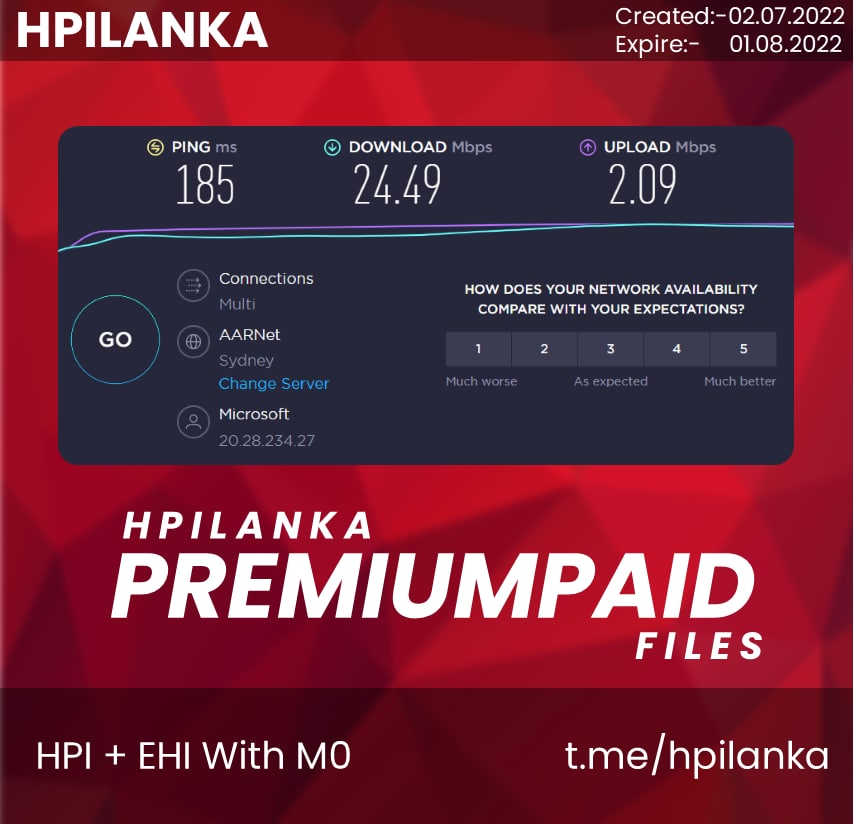
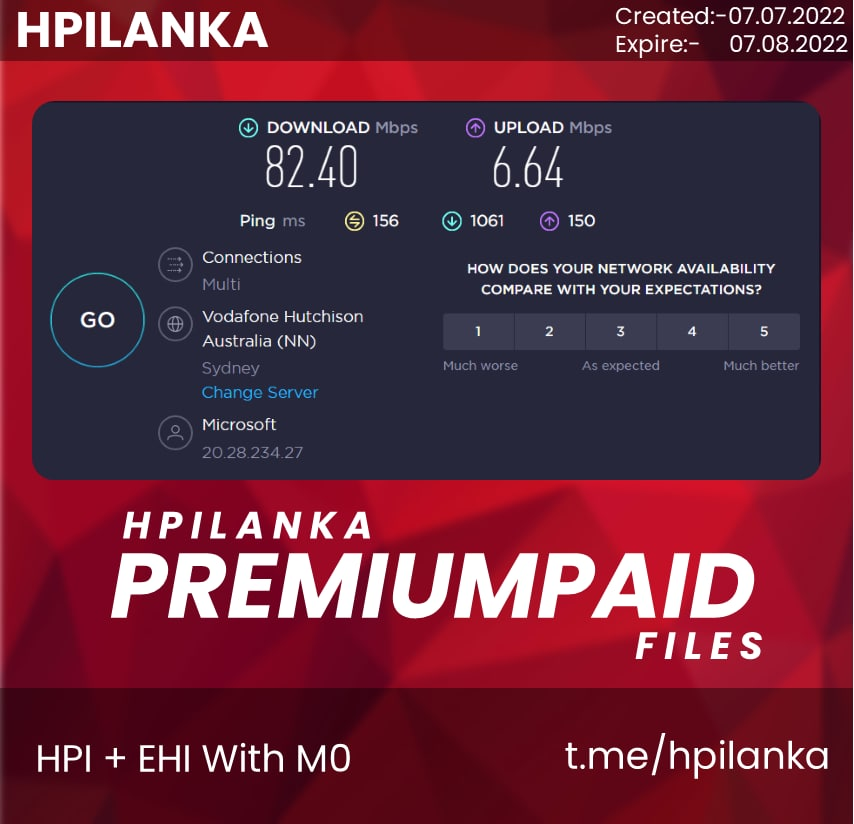
update_220707

diff --git a/hpifiles.html b/hpifiles.html
@@ -67,17 +67,17 @@
                 <p class="card-text">
                     <b>Categorie :-</b> Http prxoy injector HPI
                     <br>
-                    <b>Created date :-</b> 02.07.2022
+                    <b>Created date :-</b> 07.07.2022
                     <br>
-                    <b>Expire date :-</b> 01.08.2022
+                    <b>Expire date :-</b> 07.08.2022
                     <br>
-                    <b>Sever location :-</b> AU
+                    <b>Sever location :-</b> US 🇺🇸
                     <br>
                     <b>VPS :-</b> Azure
                 </p>
                   <div class="btn-group" role="group" aria-label="Basic mixed styles example">
-                <a href="https://t.me/hpilanka/759" target="blank" class="btn btn-dark btn-sm"><i class="fa-brands fa-telegram"></i> View on telegram</a>
-                <a href="Files/🛢 Zoom 🛢.hpi" class="btn btn-success btn-sm"><i class="fa-solid fa-download"></i> Download</a>
+                <a href="https://t.me/hpilanka/861" target="blank" class="btn btn-dark btn-sm"><i class="fa-brands fa-telegram"></i> View on telegram</a>
+                <a href="Files/🥀 Zoom 🥀.hpi" class="btn btn-success btn-sm"><i class="fa-solid fa-download"></i> Download</a>
                 </div>
               </div>
             </div>
@@ -90,17 +90,17 @@
                     <p class="card-text">
                       <b>Categorie :-</b> Http prxoy injector HPI
                       <br>
-                      <b>Created date :-</b> 02.07.2022
+                      <b>Created date :-</b> 07.07.2022
                       <br>
-                      <b>Expire date :-</b> 01.08.2022
+                      <b>Expire date :-</b> 07.08.2022
                       <br>
-                      <b>Sever location :-</b> AU
+                      <b>Sever location :-</b> US 🇺🇸
                       <br>
                       <b>VPS :-</b> Azure
                     </p>
                       <div class="btn-group" role="group" aria-label="Basic mixed styles example">
-                    <a href="https://t.me/hpilanka/763" target="blank" class="btn btn-dark btn-sm"><i class="fa-brands fa-telegram"></i> View on telegram</a>
-                    <a href="Files/🛢 WhatsApp 🛢.hpi" class="btn btn-success btn-sm"><i class="fa-solid fa-download"></i> Download</a>
+                    <a href="https://t.me/hpilanka/865" target="blank" class="btn btn-dark btn-sm"><i class="fa-brands fa-telegram"></i> View on telegram</a>
+                    <a href="Files/🥀 WhatsApp 🥀.hpi" class="btn btn-success btn-sm"><i class="fa-solid fa-download"></i> Download</a>
                     </div>
                   </div>
                 </div>
@@ -113,17 +113,17 @@
                     <p class="card-text">
                       <b>Categorie :-</b> Http prxoy injector HPI
                       <br>
-                      <b>Created date :-</b> 02.07.2022
+                      <b>Created date :-</b> 07.07.2022
                       <br>
-                      <b>Expire date :-</b> 01.08.2022
+                      <b>Expire date :-</b> 07.08.2022
                       <br>
-                      <b>Sever location :-</b> AU
+                      <b>Sever location :-</b> US 🇺🇸
                       <br>
                       <b>VPS :-</b> Azure
                     </p>
                       <div class="btn-group" role="group" data-bs-target="#afterdownload" aria-label="Basic mixed styles example">
                     <a href="https://t.me/hpilanka/758" target="blank" class="btn btn-dark btn-sm"><i class="fa-brands fa-telegram"></i> View on telegram</a>
-                    <a href="Files/🛢 YouTube 🛢.hpi" class="btn btn-success btn-sm"><i class="fa-solid fa-download"></i> Download</a>
+                    <a href="https://t.me/hpilanka/867" class="btn btn-success btn-sm"><i class="fa-solid fa-download"></i> Download</a>
                     </div>
                   </div>
                 </div>
@@ -136,17 +136,17 @@
                     <p class="card-text">
                       <b>Categorie :-</b> Http prxoy injector HPI
                       <br>
-                      <b>Created date :-</b> 02.07.2022
+                      <b>Created date :-</b> 07.07.2022
                       <br>
-                      <b>Expire date :-</b> 01.08.2022
+                      <b>Expire date :-</b> 07.08.2022
                       <br>
-                      <b>Sever location :-</b> AU
+                      <b>Sever location :-</b> US 🇺🇸
                       <br>
                       <b>VPS :-</b> Azure
                     </p>
                       <div class="btn-group" role="group" aria-label="Basic mixed styles example">
-                    <a href="https://t.me/hpilanka/760" target="blank" class="btn btn-dark btn-sm"><i class="fa-brands fa-telegram"></i> View on telegram</a>
-                    <a href="Files/🛢 Facebook 🛢.hpi" class="btn btn-success btn-sm">Download</a>
+                    <a href="https://t.me/hpilanka/862" target="blank" class="btn btn-dark btn-sm"><i class="fa-brands fa-telegram"></i> View on telegram</a>
+                    <a href="Files/🥀 Facebook 🥀.hpi" class="btn btn-success btn-sm">Download</a>
                     </div>
                   </div>
                 </div>
@@ -159,17 +159,17 @@
                     <p class="card-text">
                       <b>Categorie :-</b> Http prxoy injector HPI
                       <br>
-                      <b>Created date :-</b> 02.07.2022
+                      <b>Created date :-</b> 07.07.2022
                       <br>
-                      <b>Expire date :-</b> 01.08.2022
+                      <b>Expire date :-</b> 07.08.2022
                       <br>
-                      <b>Sever location :-</b> AU
+                      <b>Sever location :-</b> US 🇺🇸
                       <br>
                       <b>VPS :-</b> Azure
                     </p>
                       <div class="btn-group" role="group" aria-label="Basic mixed styles example">
-                    <a href="https://t.me/hpilanka/762" target="blank" class="btn btn-dark btn-sm"><i class="fa-brands fa-telegram"></i> View on telegram</a>
-                    <a href="Files/🛢 Twitter 🛢.hpi" class="btn btn-success btn-sm"><i class="fa-solid fa-download"></i> Download</a>
+                    <a href="https://t.me/hpilanka/864" target="blank" class="btn btn-dark btn-sm"><i class="fa-brands fa-telegram"></i> View on telegram</a>
+                    <a href="Files/🥀 Twitter 🥀.hpi" class="btn btn-success btn-sm"><i class="fa-solid fa-download"></i> Download</a>
                     </div>
                   </div>
                 </div>
@@ -182,17 +182,17 @@
                     <p class="card-text">
                       <b>Categorie :-</b> Http prxoy injector HPI
                       <br>
-                      <b>Created date :-</b> 02.07.2022
+                      <b>Created date :-</b> 07.07.2022
                       <br>
-                      <b>Expire date :-</b> 01.08.2022
+                      <b>Expire date :-</b> 07.08.2022
                       <br>
-                      <b>Sever location :-</b> AU
+                      <b>Sever location :-</b> US 🇺🇸
                       <br>
                       <b>VPS :-</b> Azure
                     </p>
                       <div class="btn-group" role="group" aria-label="Basic mixed styles example">
-                    <a href="https://t.me/hpilanka/761" target="blank" class="btn btn-dark btn-sm"><i class="fa-brands fa-telegram"></i> View on telegram</a>
-                    <a href="Files/🛢 Mobitel 0 🛢.hpi" class="btn btn-success btn-sm"><i class="fa-solid fa-download"></i> Download</a>
+                    <a href="https://t.me/hpilanka/863" target="blank" class="btn btn-dark btn-sm"><i class="fa-brands fa-telegram"></i> View on telegram</a>
+                    <a href="Files/🥀 Mobitel 0 🥀.hpi" class="btn btn-success btn-sm"><i class="fa-solid fa-download"></i> Download</a>
                     </div>
                   </div>
                 </div>
@@ -205,17 +205,17 @@
                     <p class="card-text">
                       <b>Categorie :-</b> Http prxoy injector HPI
                       <br>
-                      <b>Created date :-</b> 02.07.2022
+                      <b>Created date :-</b> 07.07.2022
                       <br>
-                      <b>Expire date :-</b> 01.08.2022
+                      <b>Expire date :-</b> 07.08.2022
                       <br>
-                      <b>Sever location :-</b> AU
+                      <b>Sever location :-</b> US 🇺🇸
                       <br>
                       <b>VPS :-</b> Azure
                     </p>
                       <div class="btn-group" role="group" aria-label="Basic mixed styles example">
-                    <a href="https://t.me/hpilanka/764" target="blank" class="btn btn-dark btn-sm"><i class="fa-brands fa-telegram"></i> View on telegram</a>
-                    <a href="Files/🛢 Without Host (VPN) 🛢.hpi" class="btn btn-success btn-sm"><i class="fa-solid fa-download"></i> Download</a>
+                    <a href="https://t.me/hpilanka/866" target="blank" class="btn btn-dark btn-sm"><i class="fa-brands fa-telegram"></i> View on telegram</a>
+                    <a href="Files/🥀 Without Host (VPN) 🥀.hpi" class="btn btn-success btn-sm"><i class="fa-solid fa-download"></i> Download</a>
                     </div>
                   </div>
                 </div>

diff --git a/ehifiles.html b/ehifiles.html
@@ -55,10 +55,171 @@
       <!--space-->
     <p>&nbsp;</p>
     <!--hometxt-->
-    <h1 class="hometxt"><b>HTTP INJECTOR (Android) CONFIGS (EHI)</b></h1>
-    <h1 class="hometxt"><b>Notice!</b></h1>
-    <h1 class="hometxt3">We do not usually give you files directly on web. So you can download ehi files from here.</h1>
-      <center><a href="https://t.me/hpilanka/768" target="_blank" class="btn btn-success" aria-current="page"><i class="fa-solid fa-cloud-arrow-down"></i> Get EHI Files</a></center>
+    <h1 class="hometxt"><b>Attention!</b></h1>
+    <h1 class="hometxt3">This Page is Under the Construction!
+      <br>
+      ©2022GreatstudiosLK</h1>
+    <div class="container">
+        <div class="row mt-3">  
+          <div class="col-md-3 mb-4 d-flex align-items-stretch">
+            <div class="card">
+              <img src="Files/tub.jpg" class="card-img-top" alt="tub">
+              <div class="card-body">
+                <h5 class="card-title"><i class="fa-solid fa-video"></i> PAID Zoom </h5>
+                <p class="card-text">
+                  <b>Categorie :-</b> Http prxoy injector HPI
+                  <br>
+                  <b>Created date :-</b> 07.07.2022
+                  <br>
+                  <b>Expire date :-</b> 07.08.2022
+                  <br>
+                  <b>Sever location :-</b> US 🇺🇸
+                  <br>
+                  <b>VPS :-</b> Azure
+                </p>
+                  <div class="btn-group" role="group" aria-label="Basic mixed styles example">
+                <a href="" target="blank" class="btn btn-dark btn-sm"><i class="fa-brands fa-telegram"></i> View on telegram</a>
+                <a href="" class="btn btn-success btn-sm"><i class="fa-solid fa-download"></i> Download</a>
+                </div>
+              </div>
+            </div>
+          </div>
+              <div class="col-md-3 mb-4 d-flex align-items-stretch">
+                <div class="card">
+                  <img src="Files/tub.jpg" class="card-img-top" alt="office16">
+                  <div class="card-body">
+                    <h5 class="card-title"> <i class="fa-brands fa-whatsapp"></i> PAID WhatsApp</h5>
+                    <p class="card-text">
+                      <b>Categorie :-</b> Http prxoy injector HPI
+                      <br>
+                      <b>Created date :-</b> 07.07.2022
+                      <br>
+                      <b>Expire date :-</b> 07.08.2022
+                      <br>
+                      <b>Sever location :-</b> US 🇺🇸
+                      <br>
+                      <b>VPS :-</b> Azure
+                    </p>
+                      <div class="btn-group" role="group" aria-label="Basic mixed styles example">
+                    <a href="" target="blank" class="btn btn-dark btn-sm"><i class="fa-brands fa-telegram"></i> View on telegram</a>
+                    <a href="" class="btn btn-success btn-sm"><i class="fa-solid fa-download"></i> Download</a>
+                    </div>
+                  </div>
+                </div>
+              </div>
+              <div class="col-md-3 mb-4 d-flex align-items-stretch">
+                <div class="card">
+                  <img src="Files/tub.jpg" class="card-img-top" alt="office16">
+                  <div class="card-body">
+                    <h5 class="card-title"><i class="fa-brands fa-youtube"></i> PAID YouTube</h5>
+                    <p class="card-text">
+                      <b>Categorie :-</b> Http prxoy injector HPI
+                      <br>
+                      <b>Created date :-</b> 07.07.2022
+                      <br>
+                      <b>Expire date :-</b> 07.08.2022
+                      <br>
+                      <b>Sever location :-</b> US 🇺🇸
+                      <br>
+                      <b>VPS :-</b> Azure
+                    </p>
+                      <div class="btn-group" role="group" data-bs-target="#afterdownload" aria-label="Basic mixed styles example">
+                    <a href="" target="blank" class="btn btn-dark btn-sm"><i class="fa-brands fa-telegram"></i> View on telegram</a>
+                    <a href="" class="btn btn-success btn-sm"><i class="fa-solid fa-download"></i> Download</a>
+                    </div>
+                  </div>
+                </div>
+              </div>
+              <div class="col-md-3 mb-4 d-flex align-items-stretch">
+                <div class="card">
+                  <img src="Files/tub.jpg" class="card-img-top" alt="office16">
+                  <div class="card-body">
+                    <h5 class="card-title"><i class="fa-brands fa-facebook"></i> PAID Facebook</h5>
+                    <p class="card-text">
+                      <b>Categorie :-</b> Http prxoy injector HPI
+                      <br>
+                      <b>Created date :-</b> 07.07.2022
+                      <br>
+                      <b>Expire date :-</b> 07.08.2022
+                      <br>
+                      <b>Sever location :-</b> US 🇺🇸
+                      <br>
+                      <b>VPS :-</b> Azure
+                    </p>
+                      <div class="btn-group" role="group" aria-label="Basic mixed styles example">
+                    <a href="" target="blank" class="btn btn-dark btn-sm"><i class="fa-brands fa-telegram"></i> View on telegram</a>
+                    <a href="" class="btn btn-success btn-sm">Download</a>
+                    </div>
+                  </div>
+                </div>
+              </div>              
+              <div class="col-md-3 mb-4 d-flex align-items-stretch">
+                <div class="card">
+                  <img src="Files/tub.jpg" class="card-img-top" alt="office16">
+                  <div class="card-body">
+                    <h5 class="card-title"><i class="fa-brands fa-twitter"></i> PAID Twitter</h5>
+                    <p class="card-text">
+                      <b>Categorie :-</b> Http prxoy injector HPI
+                      <br>
+                      <b>Created date :-</b> 07.07.2022
+                      <br>
+                      <b>Expire date :-</b> 07.08.2022
+                      <br>
+                      <b>Sever location :-</b> US 🇺🇸
+                      <br>
+                      <b>VPS :-</b> Azure
+                    </p>
+                      <div class="btn-group" role="group" aria-label="Basic mixed styles example">
+                    <a href="" target="blank" class="btn btn-dark btn-sm"><i class="fa-brands fa-telegram"></i> View on telegram</a>
+                    <a href="" class="btn btn-success btn-sm"><i class="fa-solid fa-download"></i> Download</a>
+                    </div>
+                  </div>
+                </div>
+              </div>
+              <div class="col-md-3 mb-4 d-flex align-items-stretch">
+                <div class="card">
+                  <img src="Files/tub.jpg" class="card-img-top" alt="office16">
+                  <div class="card-body">
+                    <h5 class="card-title"><i class="fa-solid fa-globe"></i> PAID Mobitel 0 (NEW)</h5>
+                    <p class="card-text">
+                      <b>Categorie :-</b> Http prxoy injector HPI
+                      <br>
+                      <b>Created date :-</b> 07.07.2022
+                      <br>
+                      <b>Expire date :-</b> 07.08.2022
+                      <br>
+                      <b>Sever location :-</b> US 🇺🇸
+                      <br>
+                      <b>VPS :-</b> Azure
+                    </p>
+                      <div class="btn-group" role="group" aria-label="Basic mixed styles example">
+                    <a href="" target="blank" class="btn btn-dark btn-sm"><i class="fa-brands fa-telegram"></i> View on telegram</a>
+                    <a href="" class="btn btn-success btn-sm"><i class="fa-solid fa-download"></i> Download</a>
+                    </div>
+                  </div>
+                </div>
+              </div>
+              <!-- Button trigger modal -->
+
+<!-- Modal -->
+<div class="modal fade" id="under" tabindex="-1" aria-labelledby="exampleModalLabel" aria-hidden="true">
+  <div class="modal-dialog">
+    <div class="modal-content">
+      <div class="modal-header">
+        <h5 class="modal-title" id="exampleModalLabel">Attention!</h5>
+        <button type="button" class="btn-close" data-bs-dismiss="modal" aria-label="Close"></button>
+      </div>
+      <div class="modal-body">
+        This Page is Under the Construction!
+        <br>
+        ©2022GreatstudiosLK
+      </div>
+      <div class="modal-footer">
+        <button type="button" class="btn btn-danger" data-bs-dismiss="modal">Ok</button>
+      </div>
+    </div>
+  </div>
+</div>
     <!--Js-->
     <script src="https://kit.fontawesome.com/1d5bfa6c13.js" crossorigin="anonymous"></script>
     <script src="https://cdn.jsdelivr.net/npm/bootstrap@5.1.3/dist/js/bootstrap.bundle.min.js" integrity="sha384-ka7Sk0Gln4gmtz2MlQnikT1wXgYsOg+OMhuP+IlRH9sENBO0LRn5q+8nbTov4+1p" crossorigin="anonymous"></script>
